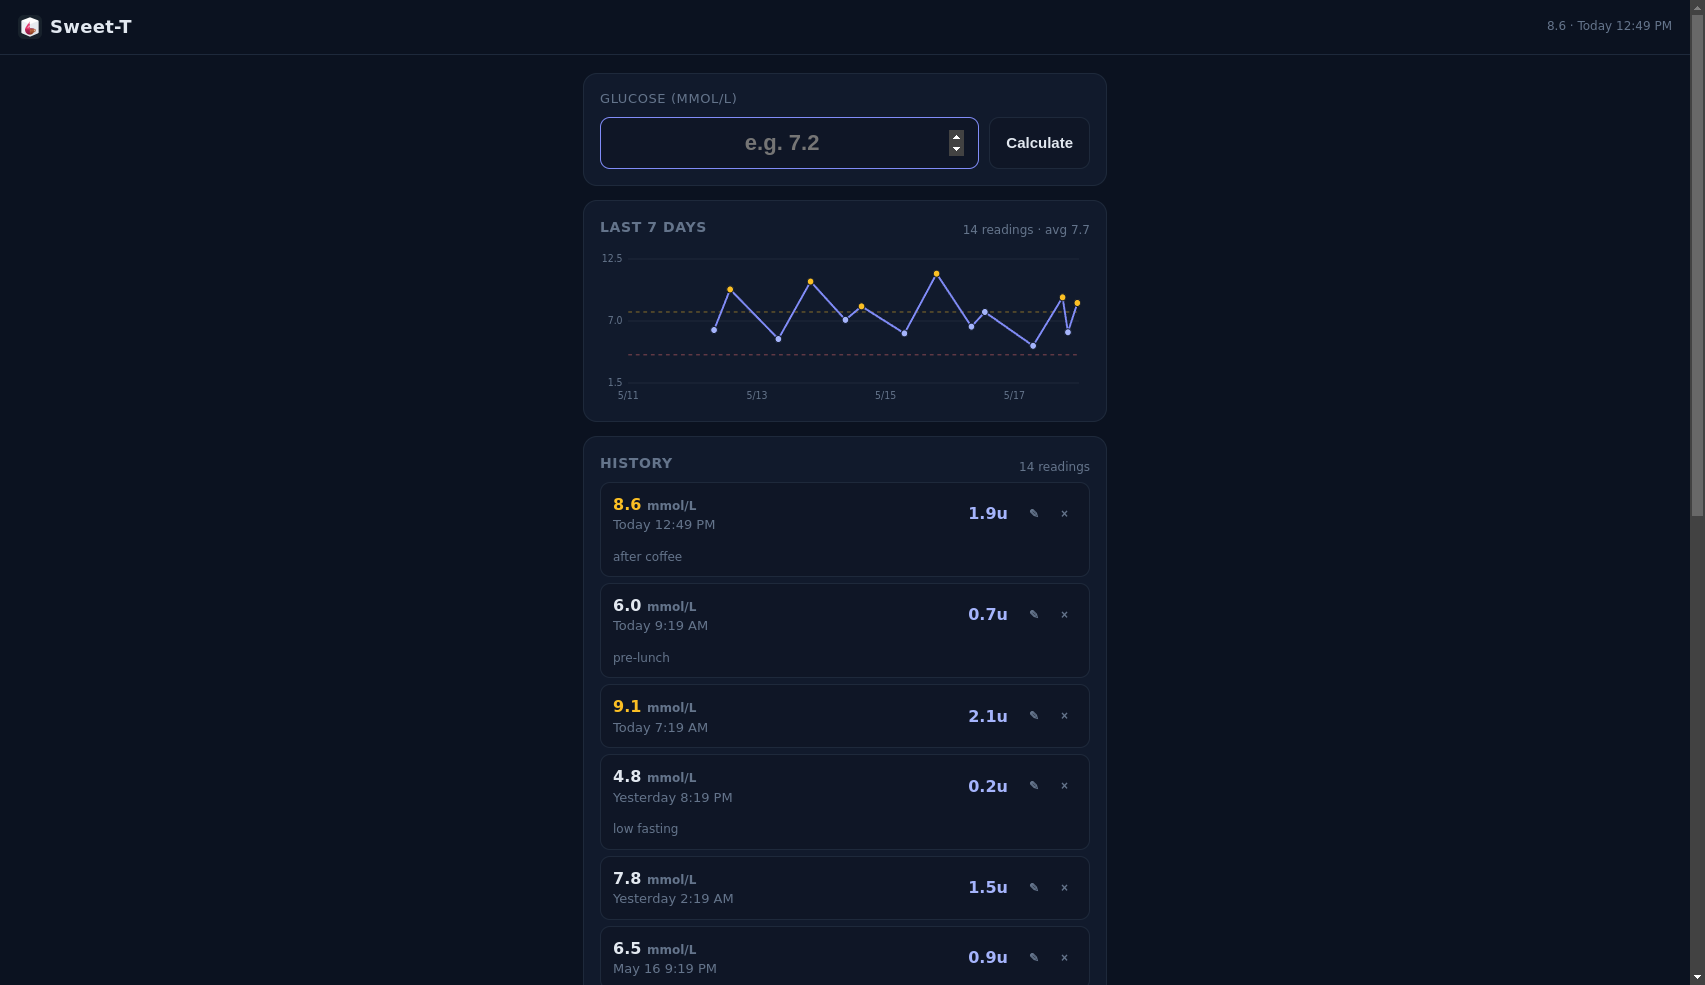
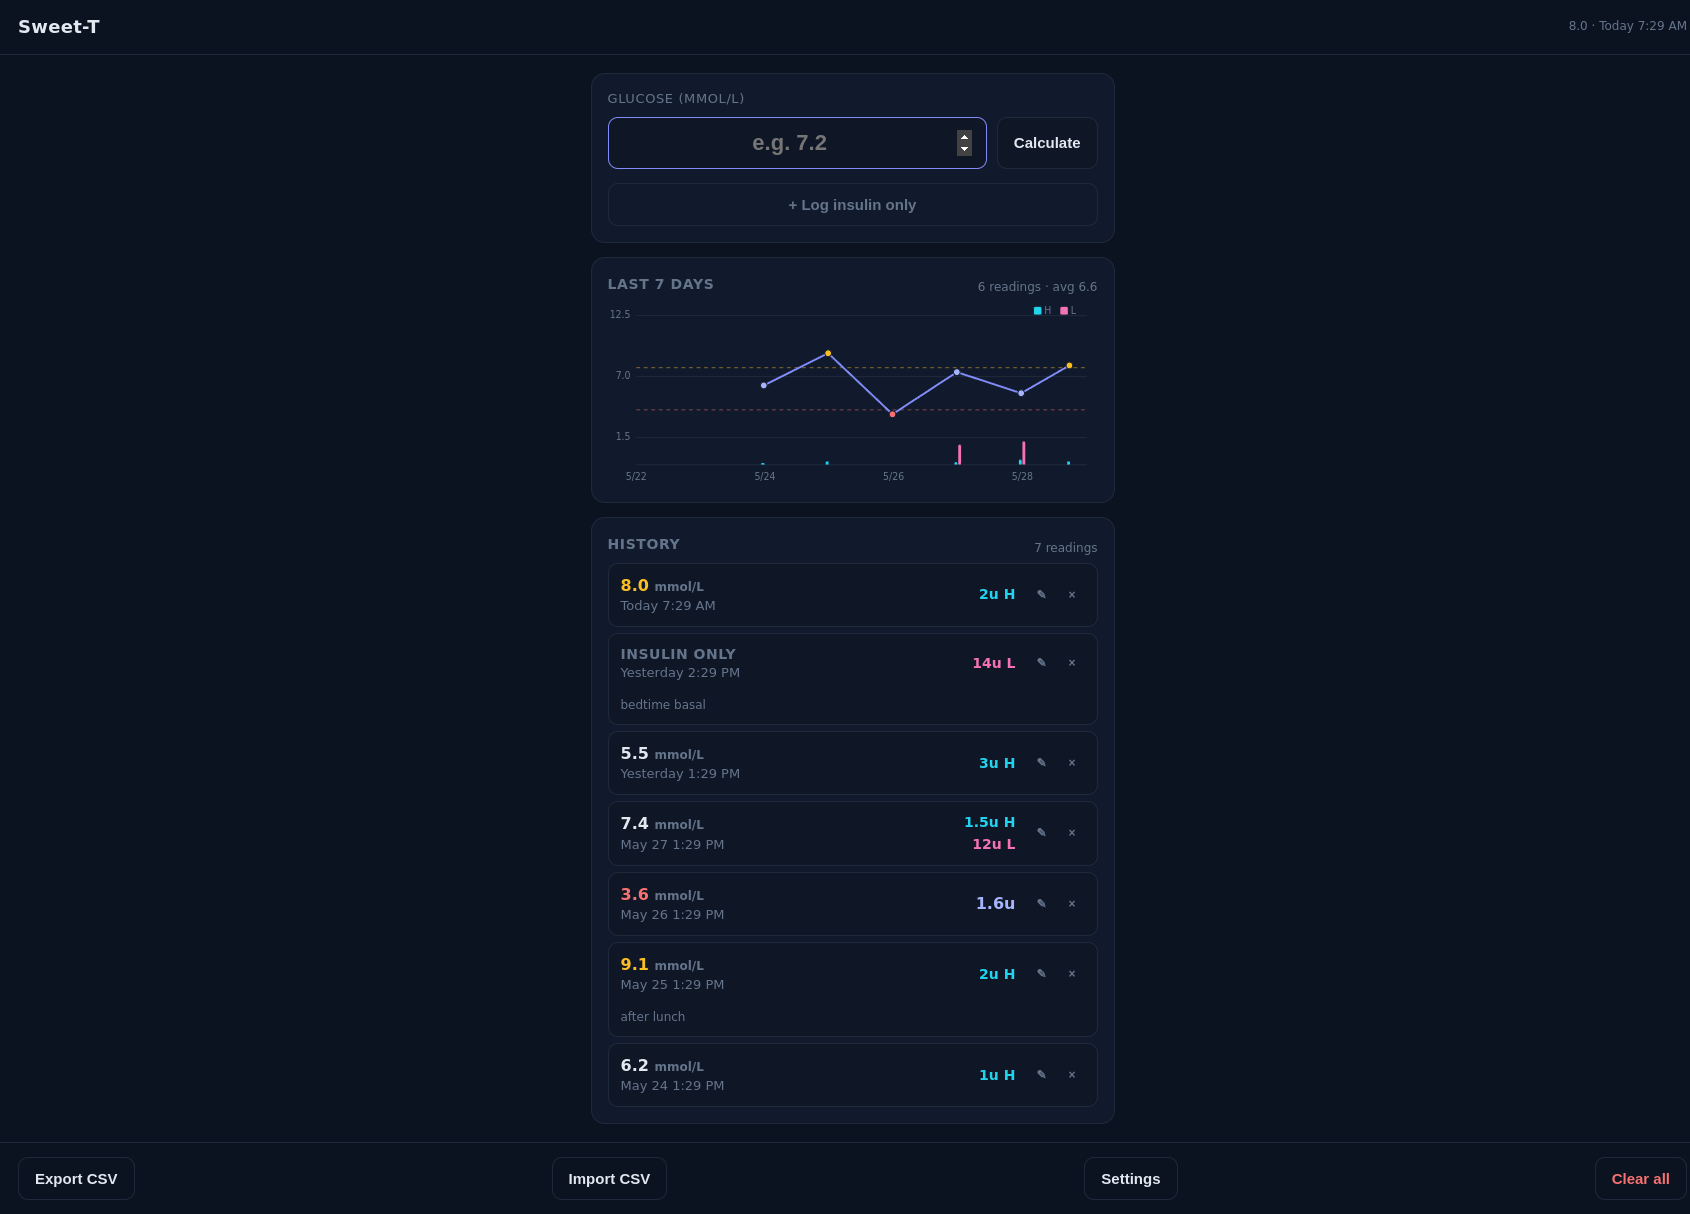
feat: add "No insulin taken" button, refresh README + screenshot
- "No insulin taken" clears both dose fields in one tap after Calculate.
- README documents insulin recording, insulin-only entries, the dose
  chart overlay, and CSV columns; adds docs/screenshot.png.
- sw.js: bump cache to v2 and precache sync.js so the installed PWA
  picks up new assets instead of serving a stale shell.

diff --git a/sw.js b/sw.js
@@ -1,40 +1,54 @@
-const CACHE = 'sweet-t-v1';
+const CACHE = "sweet-t-v2";
 const ASSETS = [
-  './',
-  './index.html',
-  './styles.css',
-  './app.js',
-  './db.js',
-  './chart.js',
-  './manifest.webmanifest',
-  './icons/icon-192.png',
-  './icons/icon-512.png',
+  "./",
+  "./index.html",
+  "./styles.css",
+  "./app.js",
+  "./db.js",
+  "./chart.js",
+  "./sync.js",
+  "./manifest.webmanifest",
+  "./icons/icon-192.png",
+  "./icons/icon-512.png",
 ];
 
-self.addEventListener('install', e => {
-  e.waitUntil(caches.open(CACHE).then(c => c.addAll(ASSETS)).then(() => self.skipWaiting()));
-});
-
-self.addEventListener('activate', e => {
+self.addEventListener("install", (e) => {
   e.waitUntil(
-    caches.keys().then(keys => Promise.all(keys.filter(k => k !== CACHE).map(k => caches.delete(k))))
-      .then(() => self.clients.claim())
+    caches
+      .open(CACHE)
+      .then((c) => c.addAll(ASSETS))
+      .then(() => self.skipWaiting()),
   );
 });
 
-self.addEventListener('fetch', e => {
+self.addEventListener("activate", (e) => {
+  e.waitUntil(
+    caches
+      .keys()
+      .then((keys) =>
+        Promise.all(
+          keys.filter((k) => k !== CACHE).map((k) => caches.delete(k)),
+        ),
+      )
+      .then(() => self.clients.claim()),
+  );
+});
+
+self.addEventListener("fetch", (e) => {
   const req = e.request;
-  if (req.method !== 'GET') return;
+  if (req.method !== "GET") return;
   e.respondWith(
-    caches.match(req).then(cached => {
-      const network = fetch(req).then(res => {
-        if (res.ok && new URL(req.url).origin === self.location.origin) {
-          const copy = res.clone();
-          caches.open(CACHE).then(c => c.put(req, copy));
-        }
-        return res;
-      }).catch(() => cached);
+    caches.match(req).then((cached) => {
+      const network = fetch(req)
+        .then((res) => {
+          if (res.ok && new URL(req.url).origin === self.location.origin) {
+            const copy = res.clone();
+            caches.open(CACHE).then((c) => c.put(req, copy));
+          }
+          return res;
+        })
+        .catch(() => cached);
       return cached || network;
-    })
+    }),
   );
 });

diff --git a/app.js b/app.js
@@ -29,6 +29,7 @@ const els = {
   timestampInput: $("timestamp-input"),
   humalog: $("humalog"),
   lantus: $("lantus"),
+  noInsulinBtn: $("no-insulin"),
   saveBtn: $("save"),
   discardBtn: $("discard"),
   insulinOnlyToggle: $("insulin-only-toggle"),
@@ -158,6 +159,12 @@ function discardPending() {
   els.humalog.value = "";
   els.lantus.value = "";
   els.glucose.focus();
+}
+
+function clearDoses() {
+  els.humalog.value = "";
+  els.lantus.value = "";
+  els.humalog.focus({ preventScroll: true });
 }
 
 function toggleInsulinOnly(show) {
@@ -675,6 +682,7 @@ function bind() {
   });
   els.saveBtn.addEventListener("click", onSave);
   els.discardBtn.addEventListener("click", discardPending);
+  els.noInsulinBtn.addEventListener("click", clearDoses);
   els.exportBtn.addEventListener("click", onExport);
   els.importBtn.addEventListener("click", () => els.importInput.click());
   els.importInput.addEventListener("change", onImportFile);

diff --git a/index.html b/index.html
@@ -40,6 +40,7 @@
             <input id="lantus" type="number" inputmode="decimal" step="0.5" min="0" placeholder="u" />
           </div>
         </div>
+        <button id="no-insulin" type="button" class="ghost no-insulin">No insulin taken</button>
         <div class="result-actions">
           <input id="note" type="text" placeholder="Note (optional)" />
           <label class="checkbox-label">

diff --git a/styles.css b/styles.css
@@ -292,6 +292,7 @@ button.danger { color: var(--danger); }
 .dose-field label { margin: 0; }
 .dose-field input { font-size: 16px; text-align: center; padding: 10px 12px; }
 
+.no-insulin { width: 100%; font-size: 13px; color: var(--muted); padding: 8px; }
 .insulin-only-toggle { margin-top: 14px; width: 100%; color: var(--muted); }
 .insulin-only {
   margin-top: 12px; padding-top: 14px;

diff --git a/README.md b/README.md
@@ -3,25 +3,41 @@
 Lightweight glucose log + insulin calculator. Personal use, single device,
 installable as a PWA, runs entirely in the browser.
 
-![Sweet-T screenshot — 7-day chart and history](docs/screenshot.png)
+![Sweet-T — 7-day glucose chart with insulin track and history](docs/screenshot.png)
 
-## Insulin formula
+## Insulin calculator
 
-Input is glucose in mmol/L. The calculator applies a piecewise rule:
+Input is glucose in mmol/L. The calculator applies a piecewise rule to
+suggest a rapid-acting dose:
 
 ```
 mgdl = mmol * 18
 insulin = mgdl > 100 ? (mgdl - 80) / 40 : mgdl / 40
 ```
 
-Each saved reading records the raw mmol/L value, computed mg/dL, the
-insulin recommendation, and `Date.now()` at save time.
+The suggestion is a starting point — you record what you actually took.
+
+## Recording insulin taken
+
+Each reading can log the doses actually administered, kept separate from
+the calculated suggestion:
+
+- **Humalog** (rapid / bolus) — prefilled with the suggested dose, editable.
+- **Lantus** (long-acting / basal) — entered manually.
+- **No insulin taken** clears both dose fields in one tap.
+- **+ Log insulin only** records a dose with no glucose reading (e.g.
+  bedtime Lantus). A reading is valid with a glucose value *or* a dose.
+
+Doses appear in the 7-day chart as a colour-coded bar track beneath the
+glucose line (Humalog cyan, Lantus pink). Insulin-only entries show in the
+history but are excluded from the glucose average.
 
 ## Stack
 
 - Vanilla HTML / CSS / JS (no build step, no node_modules)
-- IndexedDB for storage (origin-scoped, no auth, no cloud)
-- Hand-rolled SVG line chart (7-day window)
+- IndexedDB for storage (origin-scoped, no auth)
+- Hand-rolled SVG line chart (7-day window) + insulin bar track
+- Optional fire-and-forget cloud sync (glucose only) to a personal backend
 - Service worker + Web App Manifest = installable, offline-capable PWA
 
 ## Running locally
@@ -42,7 +58,8 @@ Push to `main` and GitHub Pages auto-publishes the static site.
 | `index.html` | UI shell |
 | `app.js` | State, render, event wiring |
 | `db.js` | IndexedDB CRUD wrapper |
-| `chart.js` | SVG 7-day chart |
+| `chart.js` | SVG 7-day chart + insulin track |
+| `sync.js` | Optional cloud-sync outbox (glucose only) |
 | `styles.css` | Mobile-first dark theme |
 | `sw.js` | Service worker (cache-first shell) |
 | `manifest.webmanifest` | PWA metadata |
@@ -50,5 +67,6 @@ Push to `main` and GitHub Pages auto-publishes the static site.
 
 ## Data export
 
-The Export CSV button downloads every reading with ISO timestamp,
-mmol/L, mg/dL, insulin units, and notes.
+The Export CSV button downloads every reading: ISO timestamp, mmol/L,
+mg/dL, insulin suggestion, Humalog units, Lantus units, and notes. Import
+CSV round-trips the same format.
